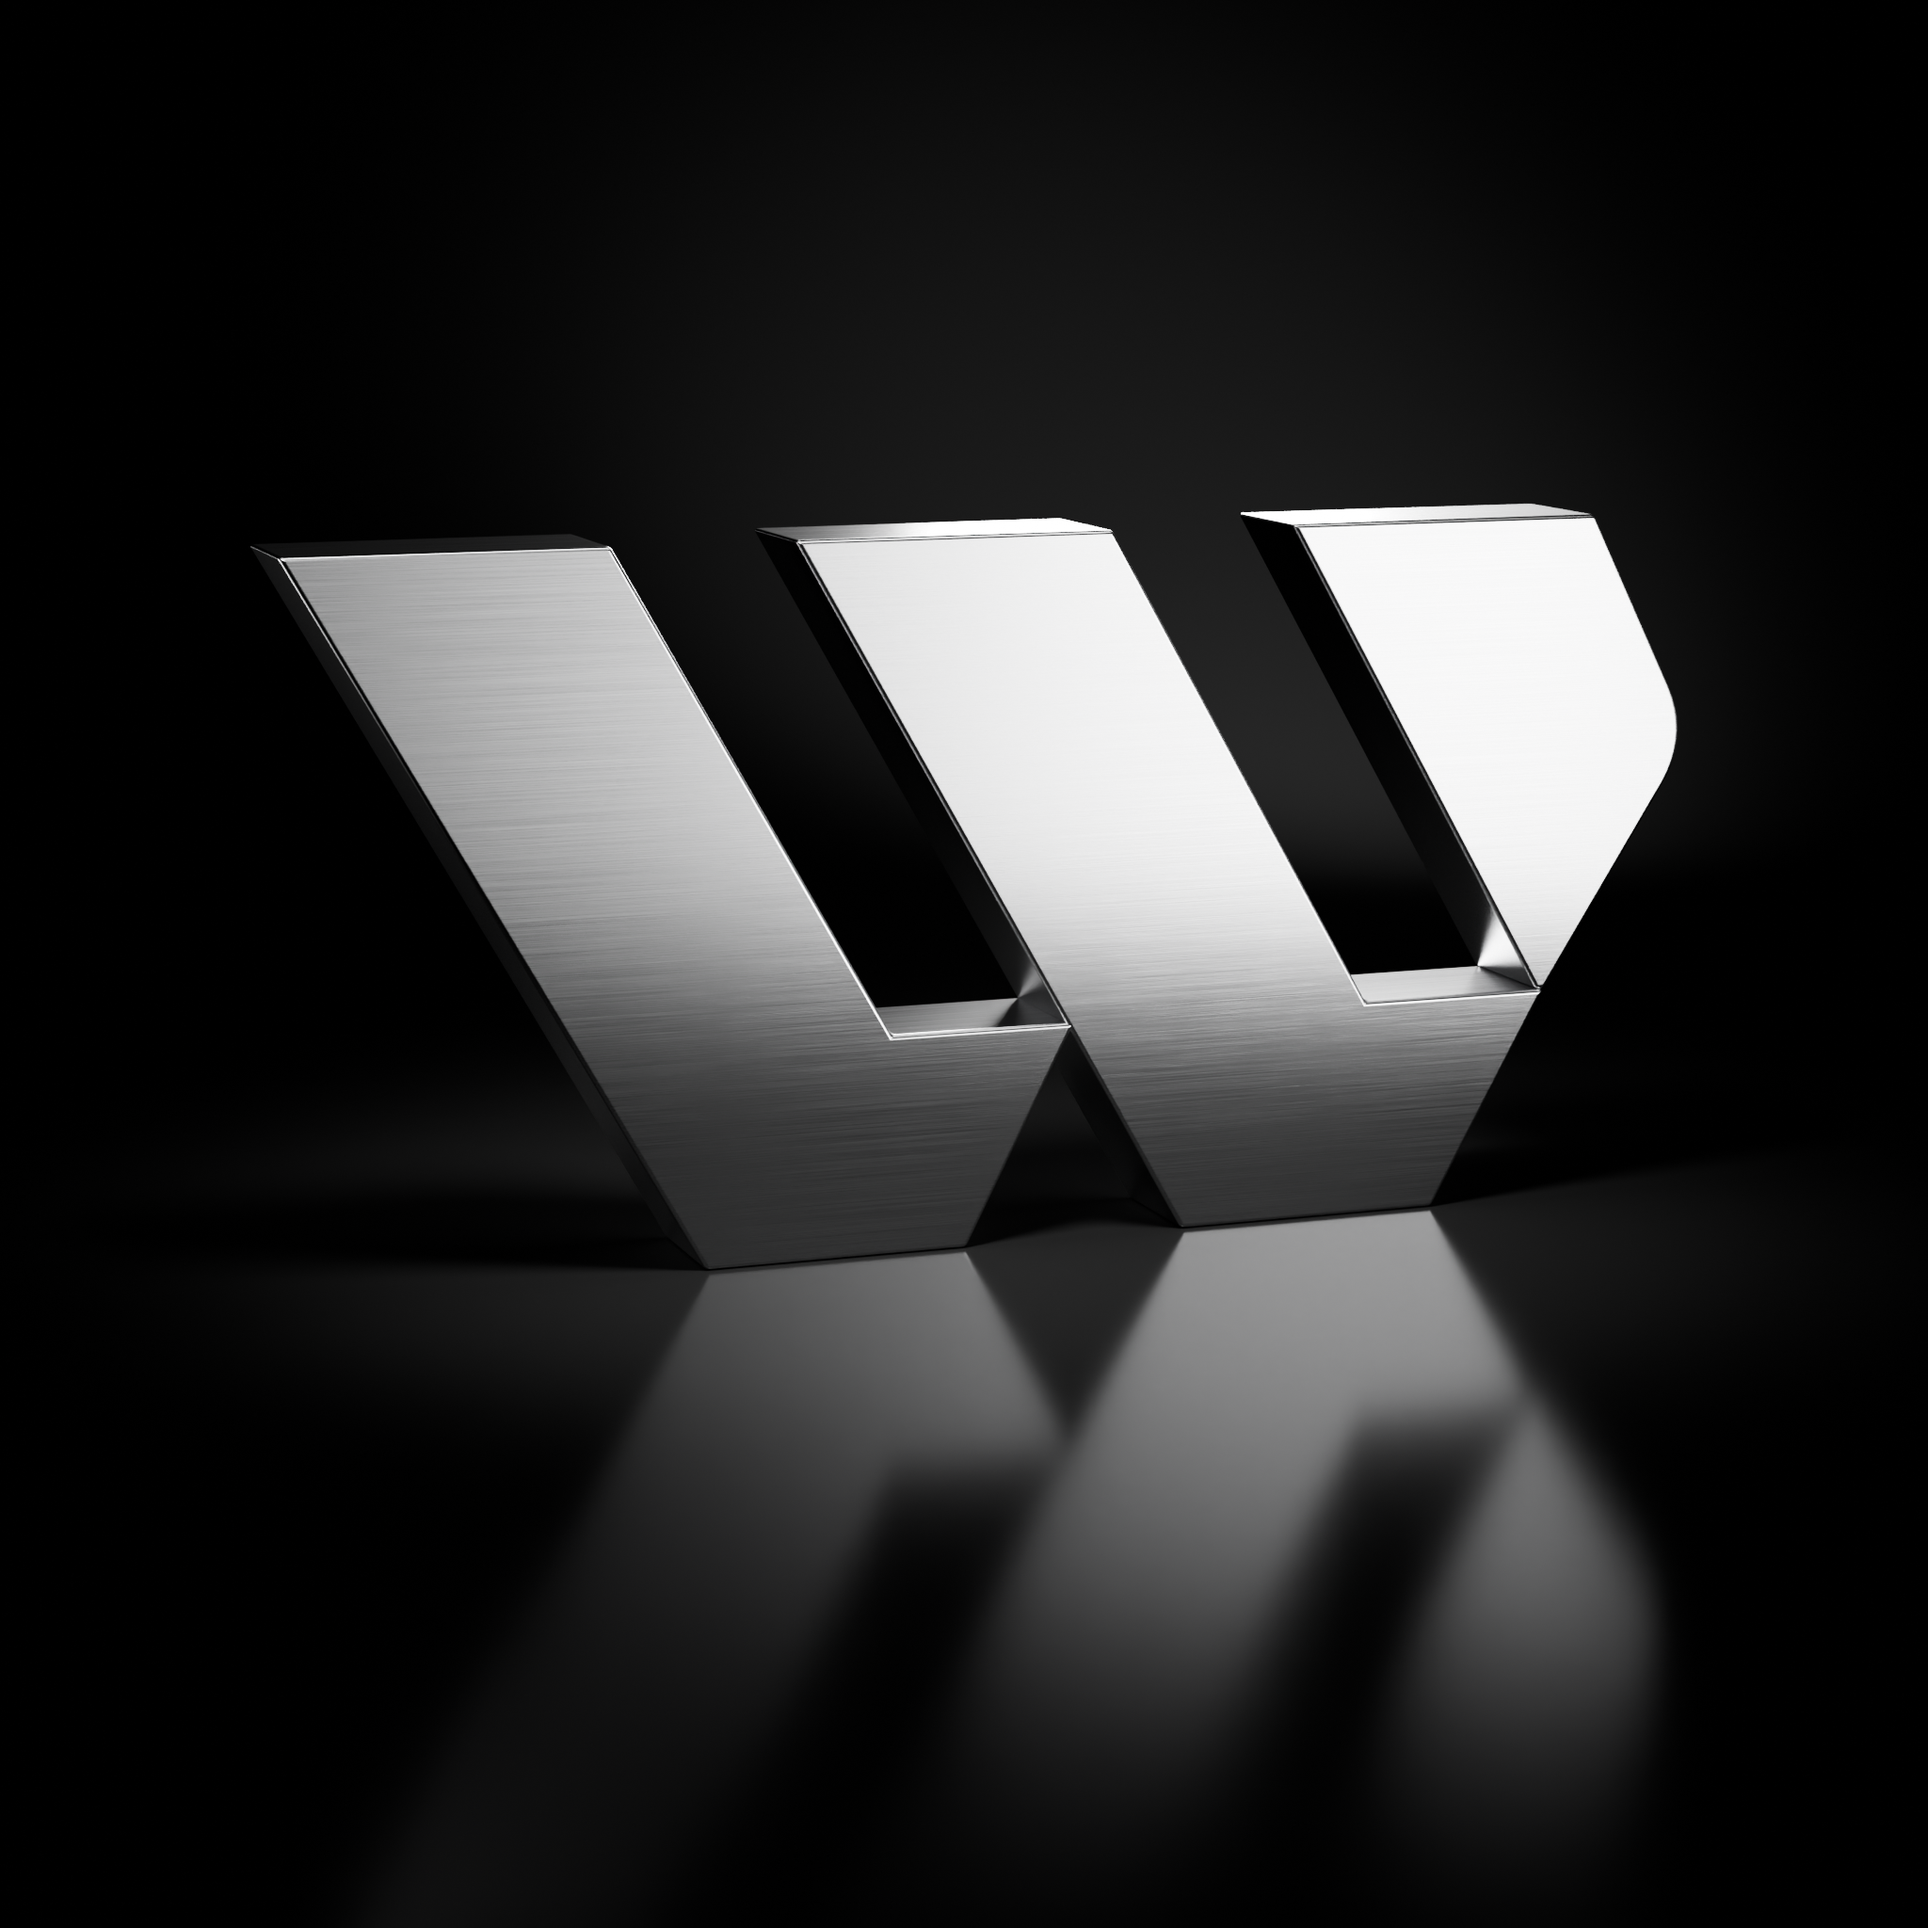
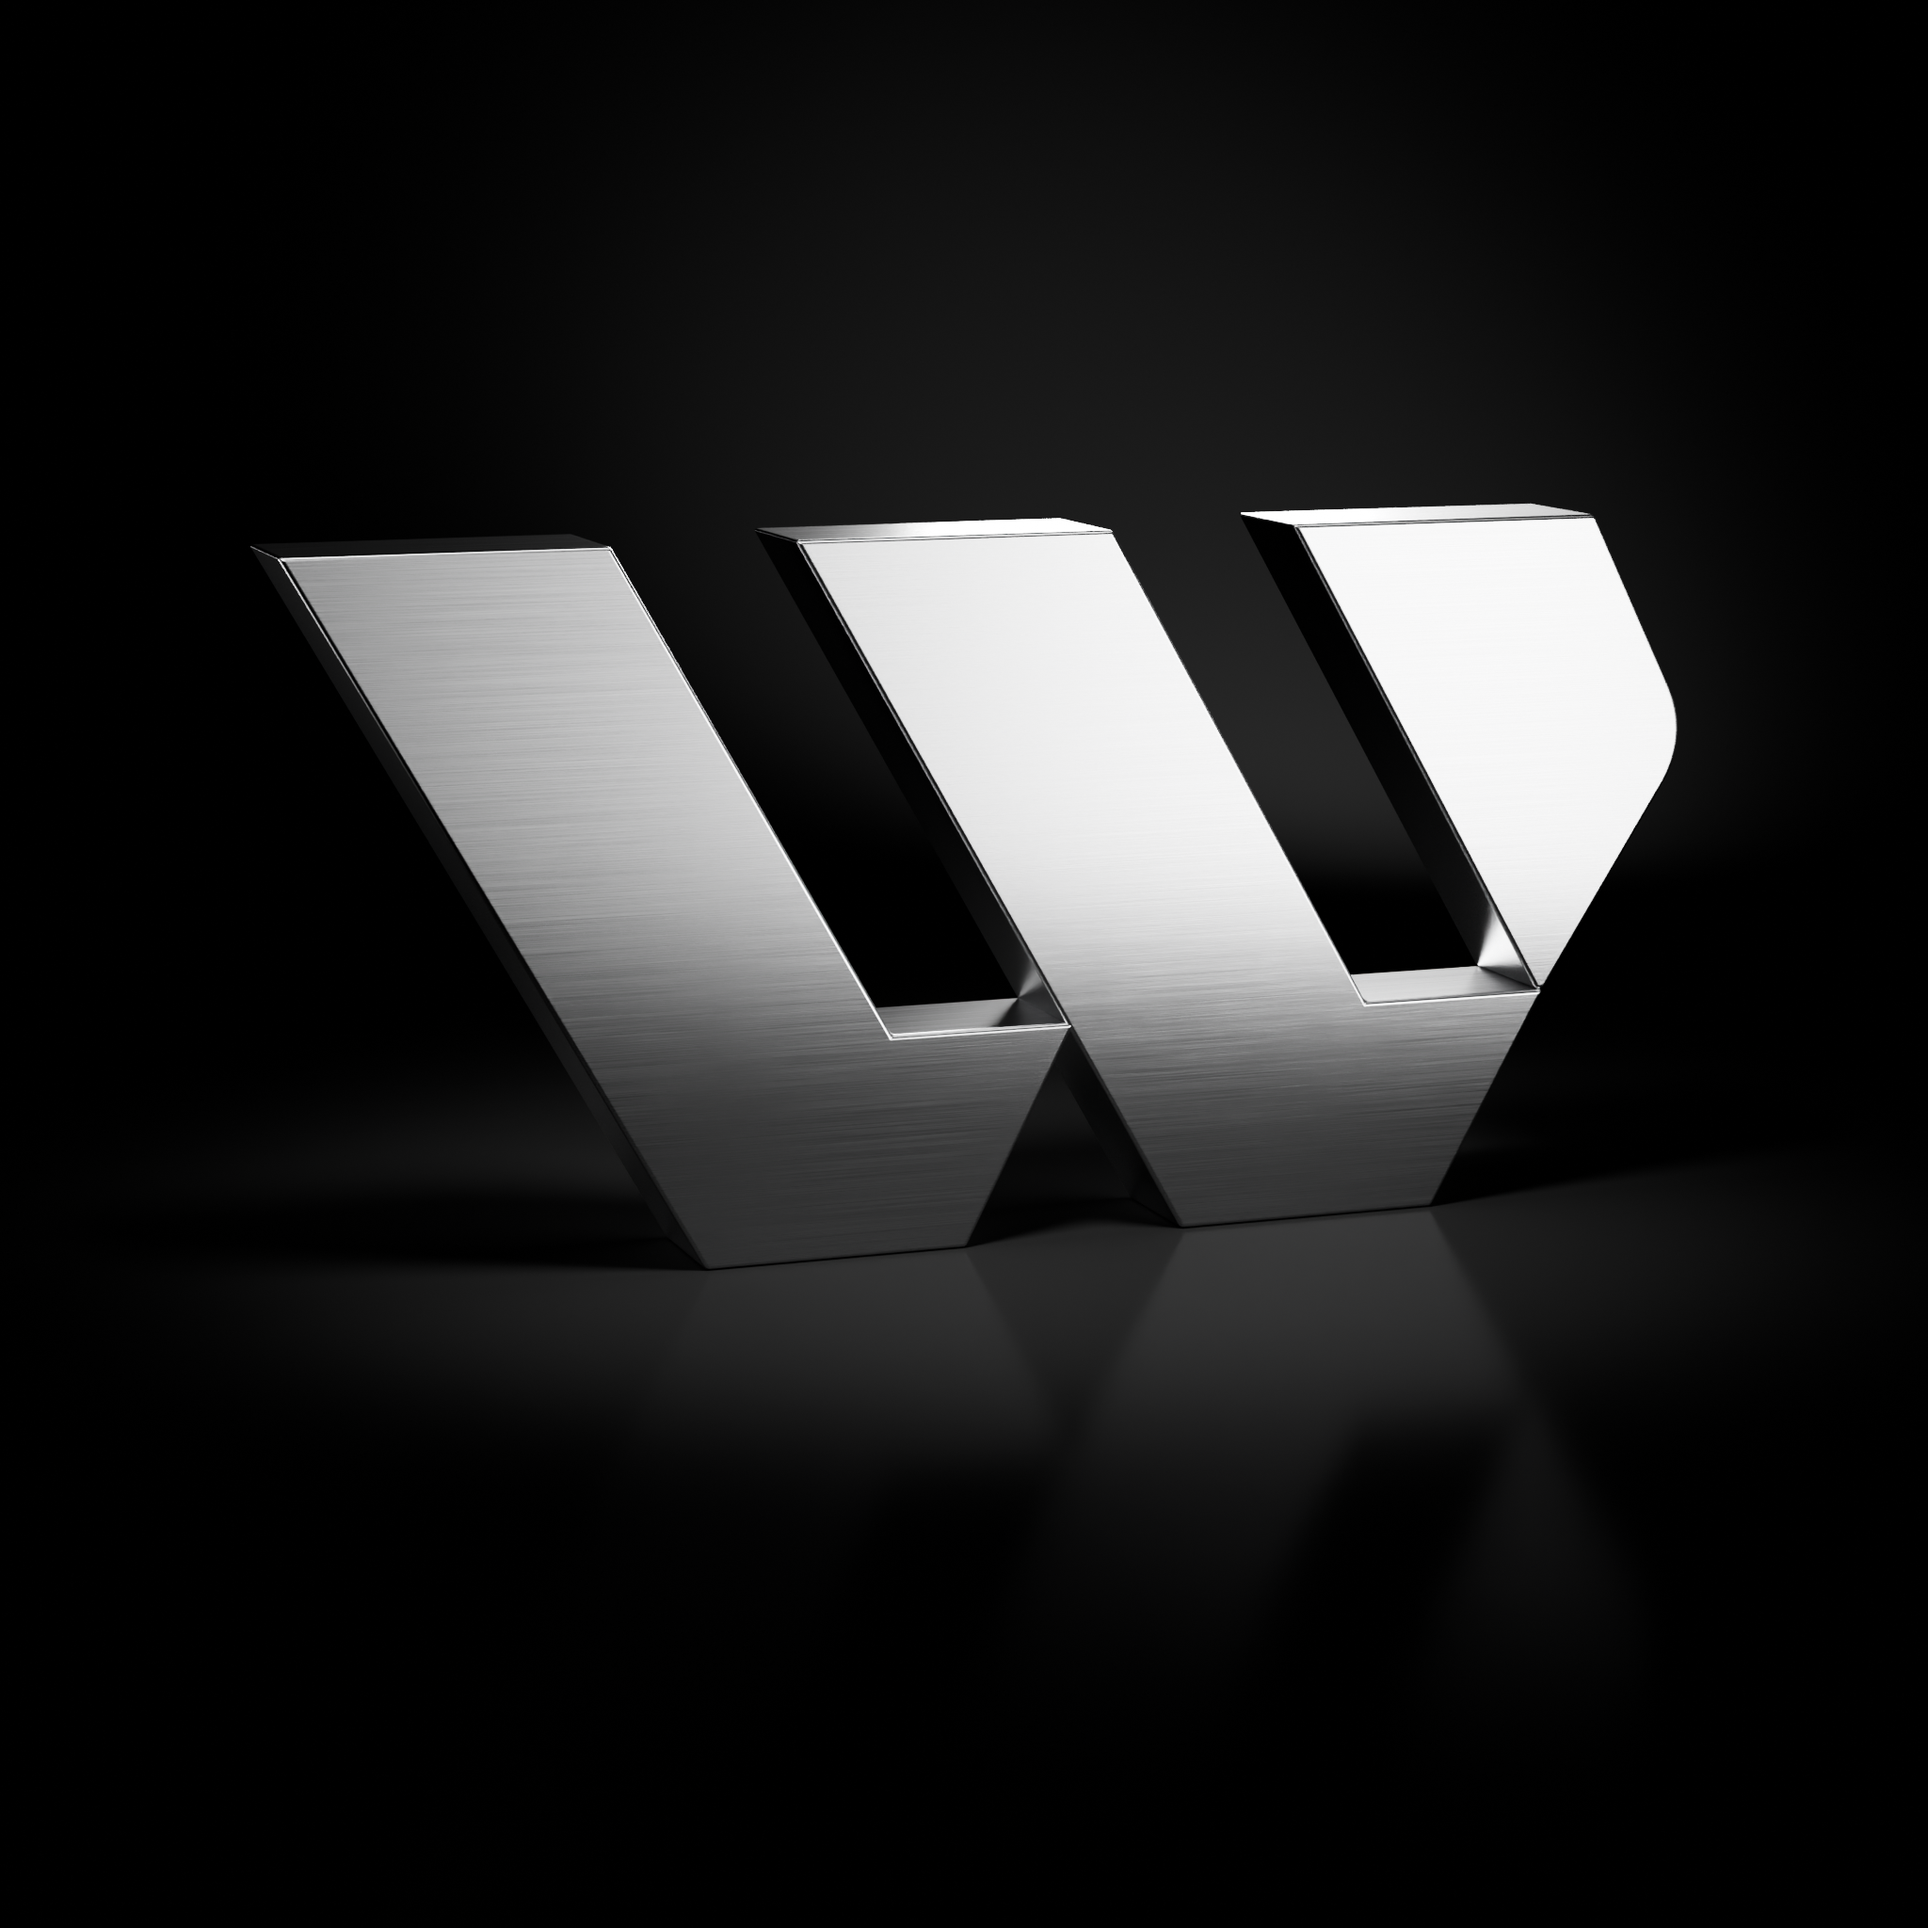
Cut floor reflection by another 90% and add look-up profile picture version
Claude-Session: https://claude.ai/code/session_011o1QFUqUw4g8AFbDVkHq2W

Changed region(s): [[0.3125, 0.625, 0.875, 0.9375]]

diff --git a/brand/3d/pfp.py b/brand/3d/pfp.py
@@ -161,7 +161,7 @@ sc.render.image_settings.file_format = 'PNG'
 
 from bpy_extras.object_utils import world_to_camera_view
 RIG = {n: tuple(bpy.data.objects[n].location) for n in ('key','fill','rim','top','kick')}
-SHOTS = {'steel-turned': ('steel', -16, 9, 0.0), 'steel-front': ('steel', -16, 9, 0.0), 'black-front': ('black', -16, 9, 0.15), 'steel-hero': ('steel', -30, 3, -1.3)}
+SHOTS = {'steel-up': ('steel', -16, float(args.get('elup', -3.5)), -0.4), 'steel-turned': ('steel', -16, 9, 0.0), 'steel-front': ('steel', -16, 9, 0.0), 'black-front': ('black', -16, 9, 0.15), 'steel-hero': ('steel', -30, 3, -1.3)}
 FILL, CY = float(args.get('fill', 0.74)), float(args.get('cy', 0.54))
 
 
@@ -173,7 +173,7 @@ def wverts():
 os.makedirs(OUT, exist_ok=True)
 for name in args.get('shots', ','.join(SHOTS)).split(','):
     mk, az, el, ev = SHOTS[name]; sc.view_settings.exposure = ev
-    W.rotation_euler = (0, 0, math.radians(float(args.get('rotz', 0)) if name == 'steel-turned' else 0))
+    W.rotation_euler = (0, 0, math.radians(float(args.get('rotz', 0)) if name in ('steel-turned', 'steel-up') else 0))
     from mathutils import Matrix
     lr = math.radians(float(args.get('rotz', 0)) * float(args.get('lightk', 0))) if name == 'steel-turned' else 0
     Rm = Matrix.Rotation(lr, 4, 'Z')
@@ -182,6 +182,7 @@ for name in args.get('shots', ','.join(SHOTS)).split(','):
         o.rotation_euler = (CENTER - o.location).to_track_quat('-Z', 'Y').to_euler()
     bpy.context.view_layer.update()
     W.data.materials.clear(); W.data.materials.append(MATFN[mk]())
+    cd.lens = float(args.get('lensup', 50)) if name == 'steel-up' else 85
     a, e = math.radians(az), math.radians(el)
     dirv = Vector((math.sin(a)*math.cos(e), -math.cos(a)*math.cos(e), math.sin(e)))
     dist = 28; cd.shift_x = cd.shift_y = 0
